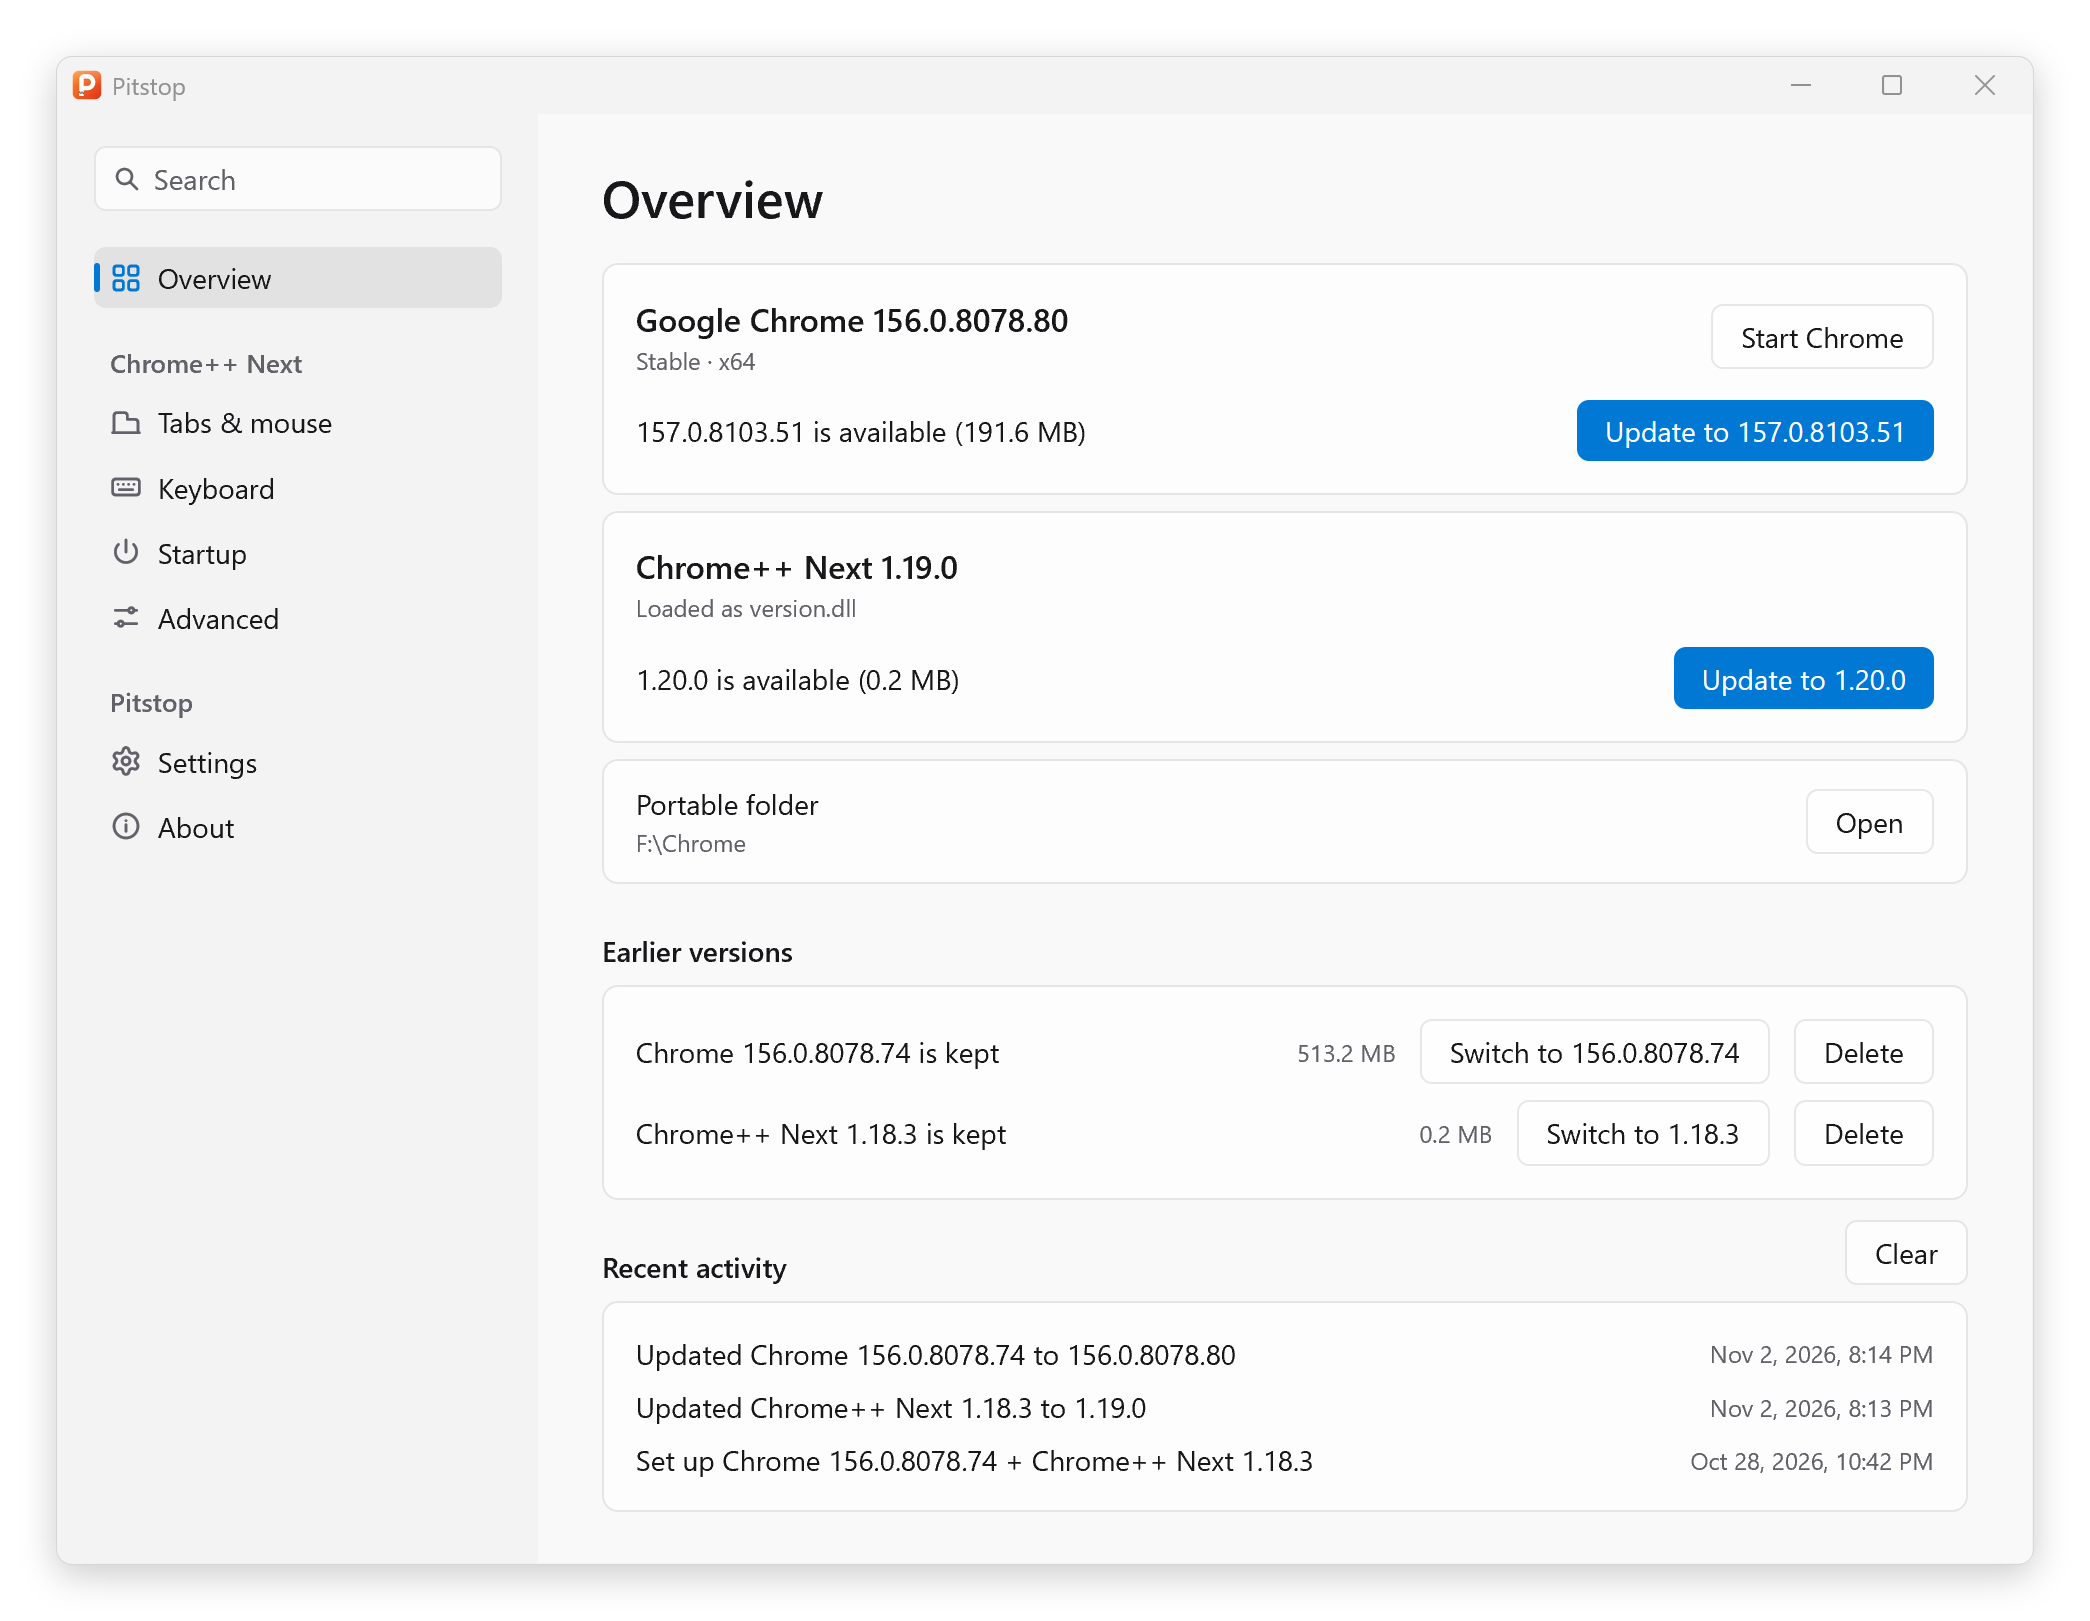
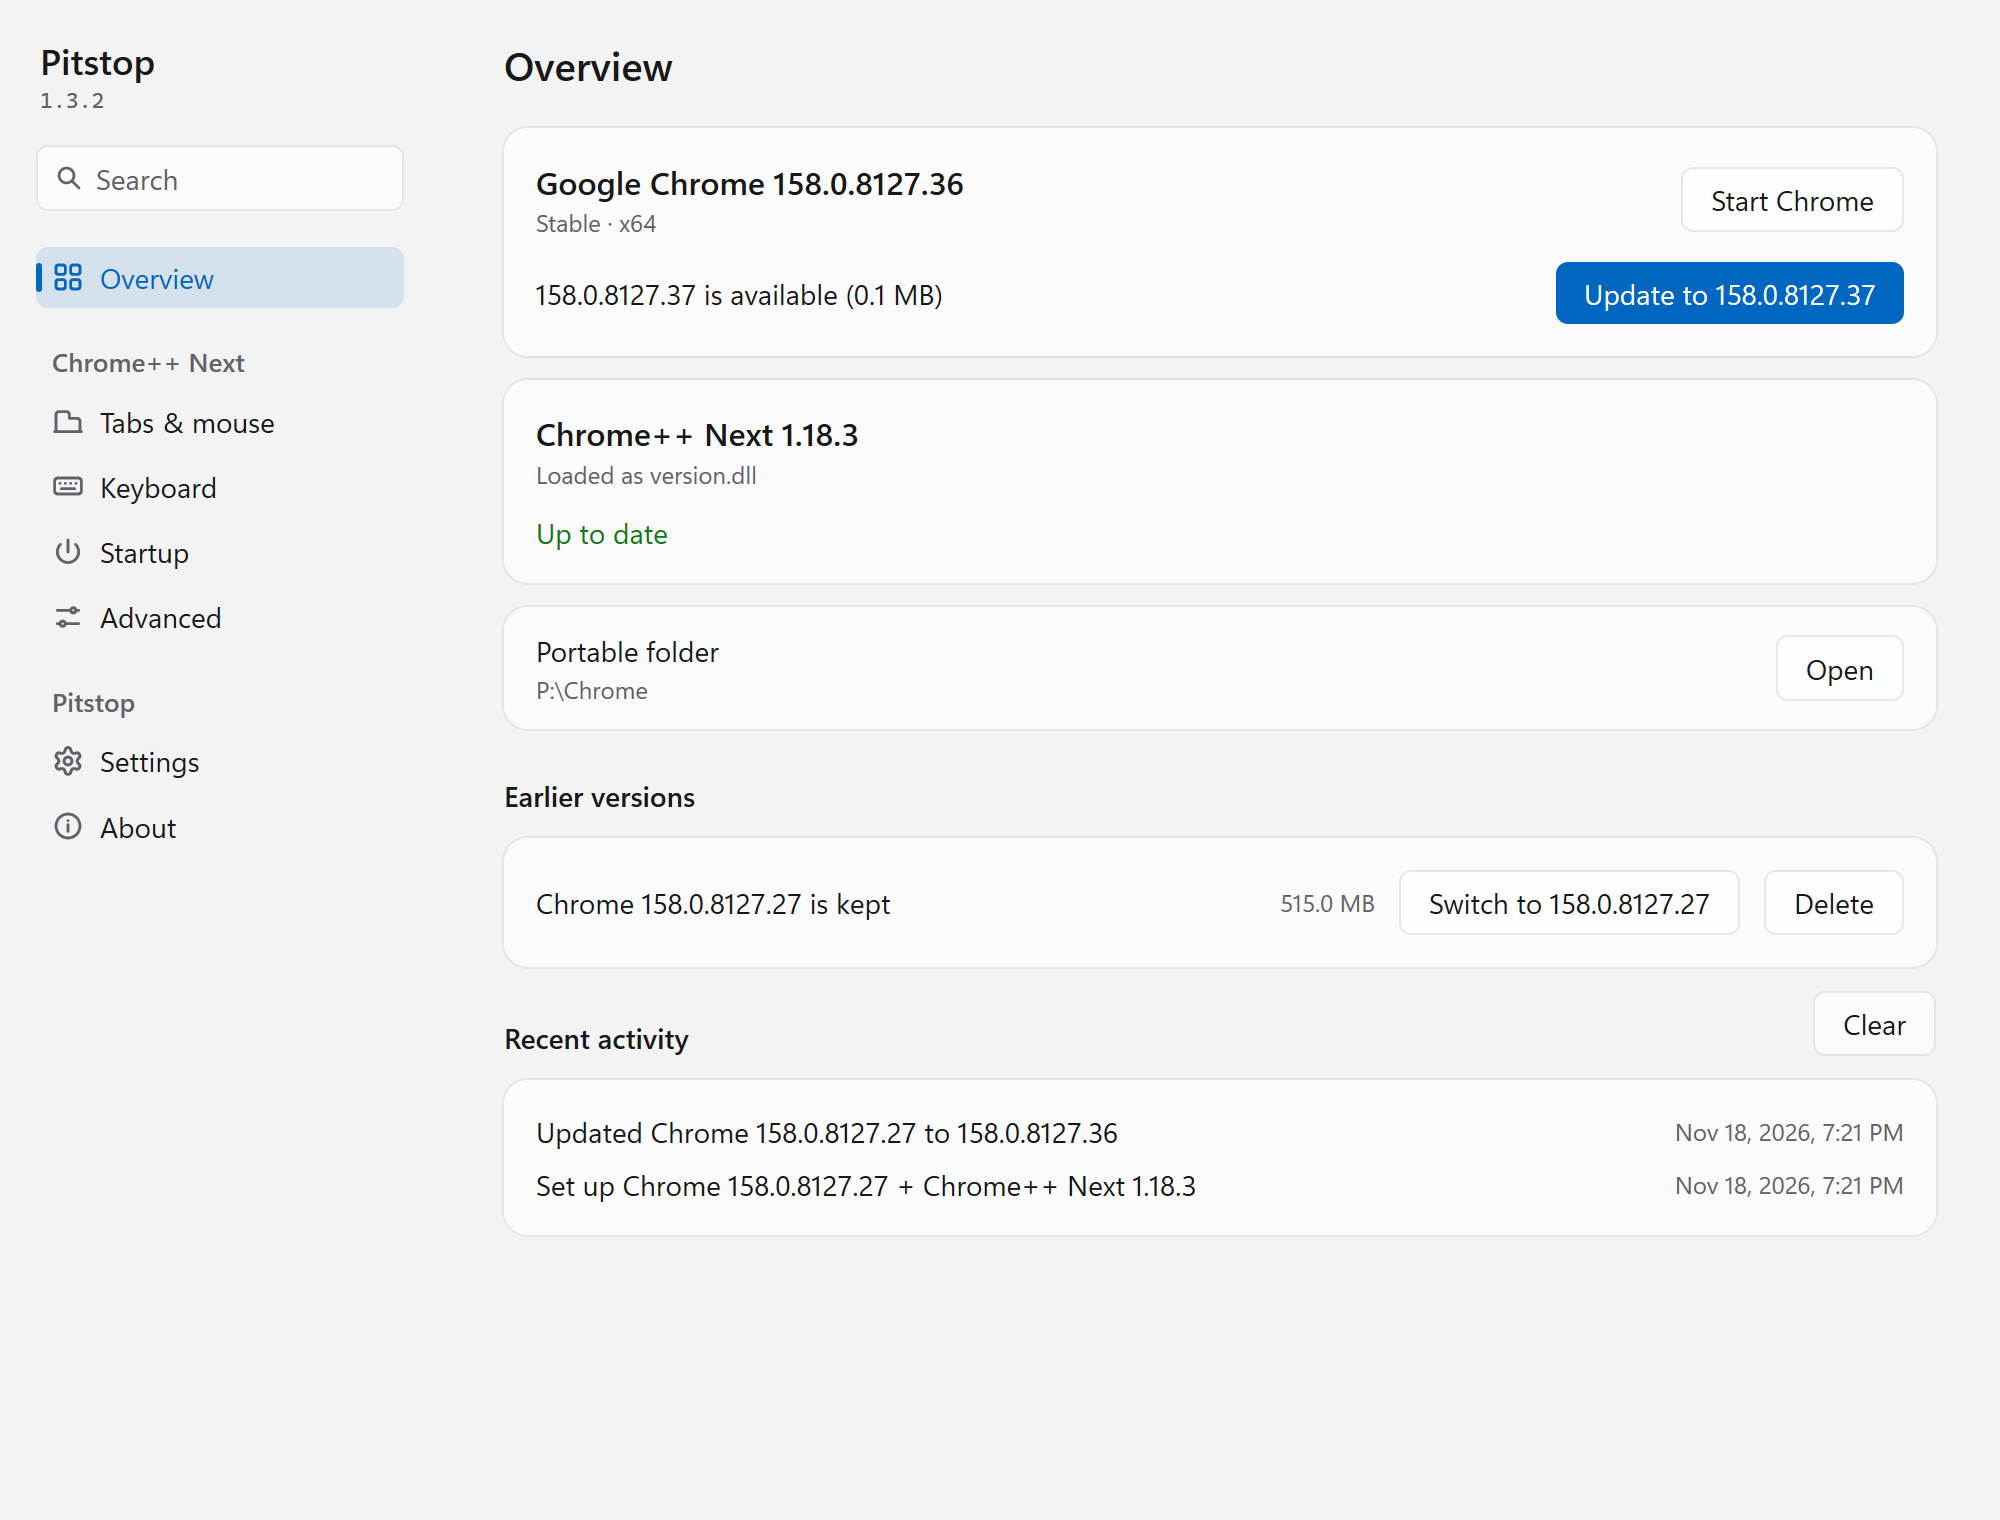
Render the README screenshots from the app's views with MyGo's render plugin

diff --git a/internal/gui/readme_test.go b/internal/gui/readme_test.go
@@ -1,0 +1,125 @@
+package gui
+
+import (
+	"fmt"
+	"image/png"
+	"os"
+	"path/filepath"
+	"testing"
+
+	"github.com/egoist/mygo/i18n"
+	"github.com/egoist/mygo/plugins/render"
+	"github.com/egoist/mygo/ui"
+)
+
+// TestReadmeScreenshots renders the README's pictures from the app's own
+// views over a fake install, into the folder PITSTOP_README_SHOTS names.
+// PITSTOP_README_ROOT, an empty folder, holds the install, so that the
+// pictures show a short path: a drive made with subst.
+func TestReadmeScreenshots(t *testing.T) {
+	dir, root := os.Getenv("PITSTOP_README_SHOTS"), os.Getenv("PITSTOP_README_ROOT")
+	if dir == "" || root == "" {
+		t.Skip("PITSTOP_README_SHOTS and PITSTOP_README_ROOT name no folders")
+	}
+	root = filepath.Join(root, "Chrome")
+	t.Cleanup(func() { os.RemoveAll(root) })
+	h := newHarnessIn(t, root, "158.0.8127.27")
+	h.a.version = "1.3.2"
+	h.setUp()
+	f := readINI(t, h)
+	for _, kv := range [][3]string{
+		{"general", "boss_key", "Ctrl+Alt+B"},
+		{"general", "translate_key", "Ctrl+Alt+T"},
+		{"keymapping", "F2", "Ctrl+PageUp"},
+		{"keymapping", "F3", "Ctrl+PageDown"},
+		{"keymapping", "Alt+Shift+S", "command:40015"},
+	} {
+		if err := f.Set(kv[0], kv[1], kv[2]); err != nil {
+			t.Fatal(err)
+		}
+	}
+	if err := f.Save(filepath.Join(h.a.in.App(), "chrome++.ini")); err != nil {
+		t.Fatal(err)
+	}
+	h.a.loadINI()
+
+	scenes := []struct {
+		name   string
+		height int
+		show   func()
+	}{
+		{"overview", 760, func() {
+			h.s.Versions = append(h.s.Versions, "158.0.8127.36")
+			h.click("Check for updates")
+			h.settle()
+			h.click("Update to 158.0.8127.36")
+			h.settle()
+			// The fake builds are a few bytes; the kept one gets a real
+			// build's size, without taking the room.
+			filler := filepath.Join(root, ".pitstop", "rollback", "chrome-158.0.8127.27", "158.0.8127.27", "resources.pak")
+			if err := os.Truncate(filler, 515_000_000); err != nil && !os.IsNotExist(err) {
+				t.Fatal(err)
+			} else if os.IsNotExist(err) {
+				if err := os.WriteFile(filler, nil, 0o644); err != nil {
+					t.Fatal(err)
+				}
+				if err := os.Truncate(filler, 515_000_000); err != nil {
+					t.Fatal(err)
+				}
+			}
+			h.a.reload()
+			h.s.Versions = append(h.s.Versions, "158.0.8127.37")
+			h.click("Check for updates")
+			h.settle()
+			h.want("158.0.8127.37 is available", "Chrome 158.0.8127.27 is kept")
+		}},
+		{"keyboard", 540, func() {
+			h.click("Keyboard")
+			h.want("Boss key", "PageDown")
+		}},
+		{"review", 640, func() {
+			h.click("Tabs & mouse")
+			h.click("Activate a tab by resting the pointer on it")
+			h.click("Advanced")
+			h.click("Ignore enterprise policies")
+			h.click("Review")
+			h.want("Review changes to chrome++.ini")
+		}},
+	}
+	t.Cleanup(func() { i18n.SetLocaleFunc(nil) })
+	for _, s := range scenes {
+		// The clicks find their labels in English.
+		i18n.SetLocaleFunc(func() string { return "en" })
+		s.show()
+		for _, loc := range [][2]string{{"en", "en"}, {"zh-Hans", "zh-CN"}} {
+			i18n.SetLocaleFunc(func() string { return loc[0] })
+			for _, dark := range []bool{false, true} {
+				// One second in, so that the page has finished coming in.
+				comp := render.Composition{
+					Width: 2000, Height: 2 * s.height, Scale: 2, FPS: 30, Frames: 31,
+					Dark: dark, Locale: loc[0],
+					View: func(c *ui.Context, _ render.Frame) { h.a.View(c) },
+				}
+				img, err := render.Still(comp, 30, render.Options{})
+				if err != nil {
+					t.Fatal(err)
+				}
+				theme := "light"
+				if dark {
+					theme = "dark"
+				}
+				out, err := os.Create(filepath.Join(dir, fmt.Sprintf("%s-%s-%s.png", s.name, loc[1], theme)))
+				if err != nil {
+					t.Fatal(err)
+				}
+				err = png.Encode(out, img)
+				if cerr := out.Close(); err == nil {
+					err = cerr
+				}
+				if err != nil {
+					t.Fatal(err)
+				}
+			}
+		}
+	}
+}

diff --git a/internal/gui/gui_test.go b/internal/gui/gui_test.go
@@ -42,8 +42,12 @@ type harness struct {
 }
 
 func newHarness(t *testing.T, versions ...string) *harness {
+	return newHarnessIn(t, filepath.Join(t.TempDir(), "Chrome"), versions...)
+}
+
+func newHarnessIn(t *testing.T, root string, versions ...string) *harness {
 	h := &harness{t: t, s: pitstoptest.NewServers(t, versions...), posts: make(chan func(), 4096)}
-	engine, err := pitstop.New(filepath.Join(t.TempDir(), "Chrome"), h.s.Client())
+	engine, err := pitstop.New(root, h.s.Client())
 	if err != nil {
 		t.Fatal(err)
 	}
